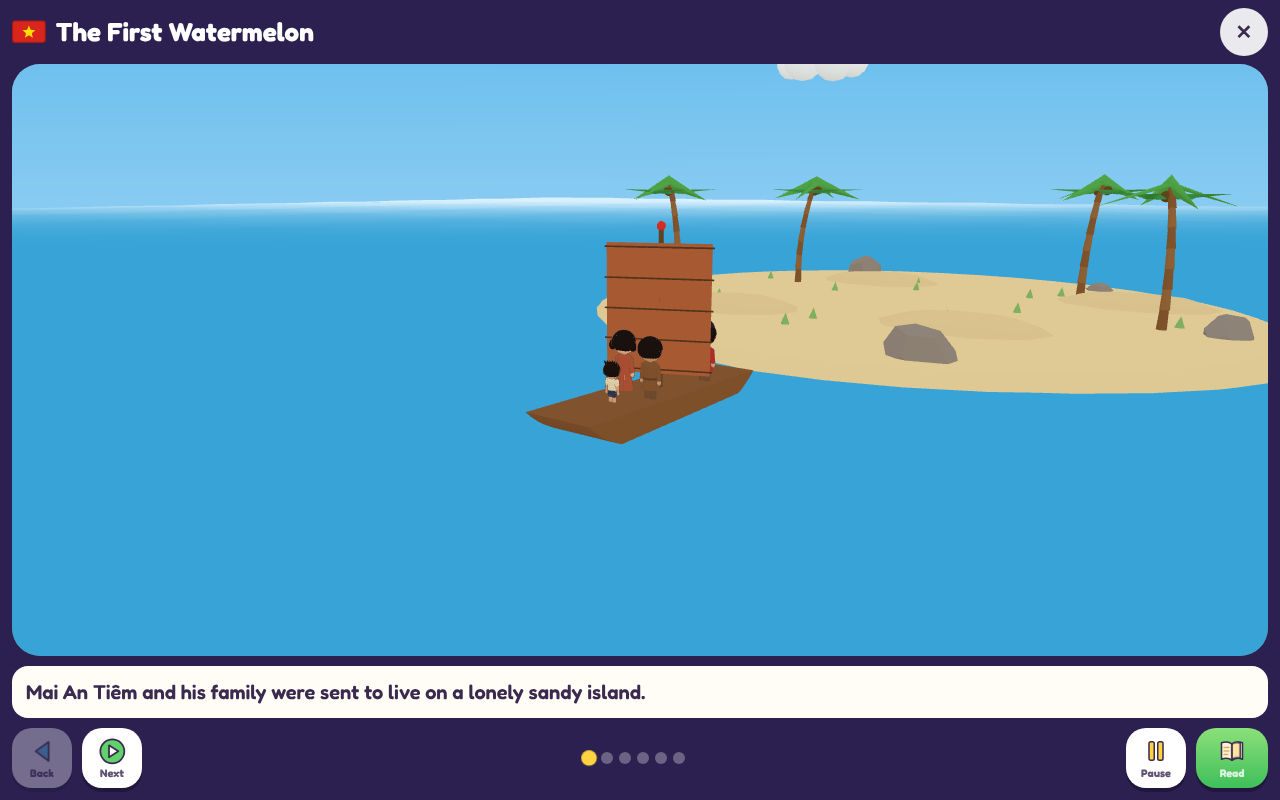
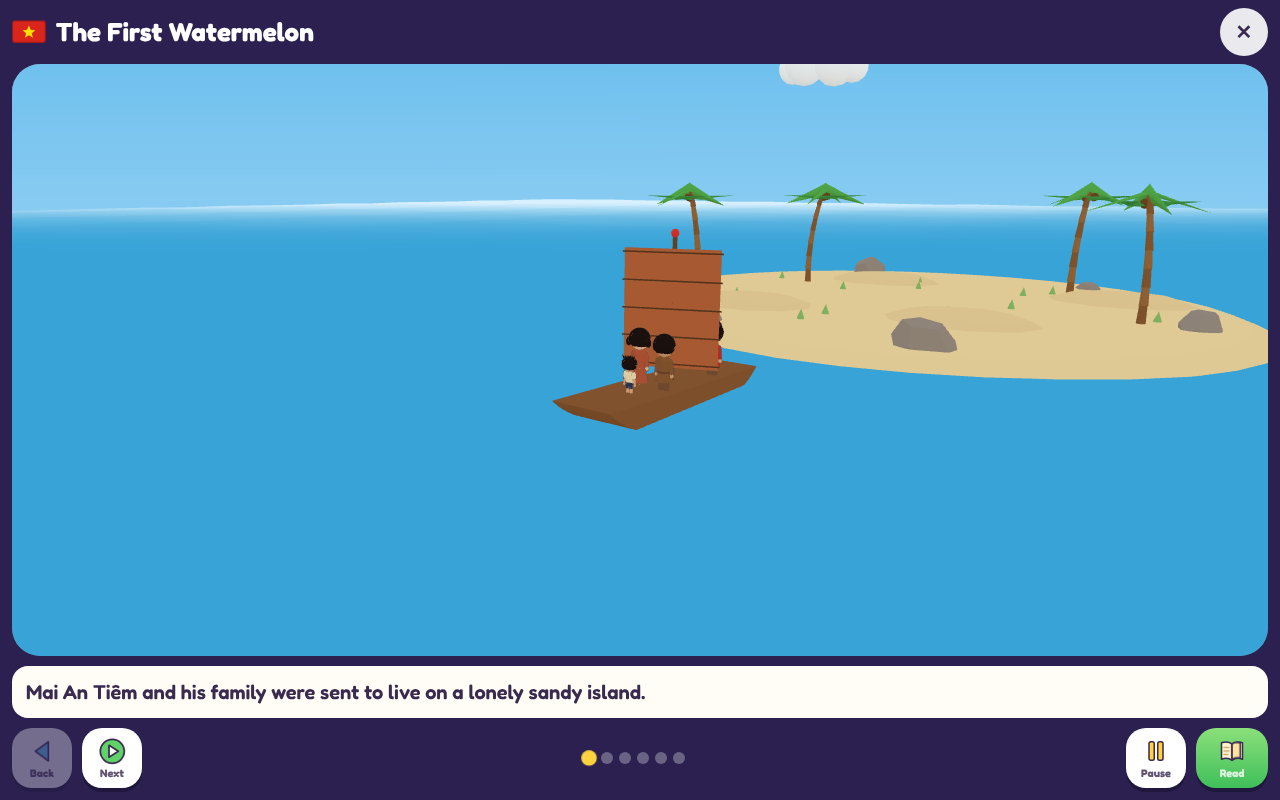
films: How to play has the story films' layout, title in a bar above the picture and words in the same box under it (owner, 16 Oct); pictures
Claude-Session: https://claude.ai/code/session_01C97UPDHkCN1oE7gf2sfXTn

diff --git a/js/howto.js b/js/howto.js
@@ -319,7 +319,9 @@ export function openHowTo(id, { onPlay, onClose } = {}) {
   if (h.real) cards.push(h.real);
   cards.push(Object.assign(S('⭐ 🎉', 'Now it is your turn. Have fun!', 'Giờ đến lượt con. Chơi vui nhé!'), { end: true }));
   const prevMusic = Music.key; Music.play('none');
-  const m = el('div', 'howto', `<div class="ht-film"><div class="ht-screen"></div><div class="ht-cap"></div><div class="ht-bar"><i></i></div></div>
+  // (owner, 16 Oct AEDT: "the text in How to play should be the same position as the film") like a story film: the title
+  // in a bar above the picture, the words in a box under it, nothing written over the picture
+  const m = el('div', 'howto', `<div class="ht-film"><div class="ht-top"><b class="ht-title">${esc(T('How to play', 'Cách chơi'))}${g ? ': ' + esc(g.name()) : ''}</b></div><div class="ht-screen"></div><div class="ht-cap"></div><div class="ht-bar"><i></i></div></div>
     <div class="ht-ctl"><button class="ht-b ht-prev" aria-label="${T('Back', 'Lùi')}">⏮</button><button class="ht-b ht-pp" aria-label="${T('Pause', 'Tạm dừng')}">⏸</button><button class="ht-b ht-next" aria-label="${T('Next', 'Tiếp')}">⏭</button>
     ${onPlay ? `<button class="ht-play">▶ ${T('Play now', 'Chơi ngay')}</button>` : ''}</div><button class="ht-x" aria-label="${T('Close', 'Đóng')}">✕</button>`);
   document.body.appendChild(m);
@@ -349,7 +351,7 @@ export function openHowTo(id, { onPlay, onClose } = {}) {
     screen.innerHTML = scene + (c.title ? `<div class="ht-titlecard"><span class="ht-big">${art(c.pic)}</span><b class="ht-name">${esc(T(c.en, c.vi))}</b>${originLabel(id) ? `<small>${esc(originLabel(id))}</small>` : ''}</div>`
       : `<span class="ht-host th-c in-l${k > 1 ? ' still' : ''}" style="--d:0s">${CAST[host]()}</span><div class="ht-props">${pics.map((p, i) => `<span class="ht-pic${p === '👆' || p === '👇' ? ' finger' : ''}" style="--d:${.3 + i * .35}s">${art(p)}</span>`).join('')}</div>`);
     setTimeout(() => { const hs = screen.querySelector('.ht-host'); if (hs) hs.classList.remove('walking'); }, 1500);
-    cap.textContent = c.title ? '' : T(c.en, c.vi);
+    cap.textContent = c.title ? T('How to play ', 'Cách chơi ') + T(c.en, c.vi) : T(c.en, c.vi);
     SFX.pop && SFX.pop(k);
     const t0 = performance.now();
     screen.classList.add('speaking');
@@ -363,8 +365,7 @@ export function openHowTo(id, { onPlay, onClose } = {}) {
   };
   const showFilm = async (my, c) => {
     screen.querySelectorAll('.ht-titlecard').forEach(x => x.remove());
-    if (c.title) screen.appendChild(el('div', 'ht-titlecard', `<b class="ht-name">${esc(T(c.en, c.vi))}</b>${originLabel(id) ? `<small>${esc(originLabel(id))}</small>` : ''}`));
-    cap.textContent = c.title ? '' : T(c.en, c.vi);
+    cap.textContent = c.title ? T('How to play ', 'Cách chơi ') + T(c.en, c.vi) + (originLabel(id) ? ' · ' + originLabel(id) : '') : T(c.en, c.vi);
     SFX.pop && SFX.pop(k);
     const played = film.page(cards.slice(0, k).filter(x => !x.demo).length); // (the real game's turn has no film page)
     await sayAsync(c.title ? T('How to play ', 'Cách chơi ') + T(c.en, c.vi) : c.en, c.title ? T('How to play ', 'Cách chơi ') + c.vi : c.vi);

diff --git a/css/style.css b/css/style.css
@@ -2676,12 +2676,14 @@ details.ocard.friends:not([open]) > summary::after { transform: rotate(-90deg); 
 body.touch .htoast.explain { bottom: calc(env(safe-area-inset-bottom) + 184px); max-width: min(320px, calc(100% - 48px)); white-space: normal; overflow: hidden; }
 /* (owner, 16 Oct) Studio "A game's question line on screen" off: the line's space stays so nothing moves */
 .gl.no-help .gl-help { visibility: hidden; }
-/* (owner, 16 Oct AEDT: "captions in films are too big, they cover almost everything") the words in films are small and
-   keep to the edges of the picture, never over the middle of it; "big text" (body.bigtext) still makes them bigger */
-.howto.film .ht-titlecard { top: 8px; left: 8px; transform: none; flex-direction: row; gap: 6px; max-width: min(62%, 300px); padding: 4px 12px; border-radius: 999px; background: rgba(255, 255, 255, .86); box-shadow: none; }
-.howto.film .ht-titlecard .ht-name { font-family: inherit; font-size: clamp(15px, 2vw, 18px); padding: 0; white-space: nowrap; overflow: hidden; text-overflow: ellipsis; }
-.howto.film .ht-titlecard .ht-big { font-size: 20px; animation: none; }
-.ht-cap { font-size: clamp(16px, 2.2vw, 19px); line-height: 1.3; min-height: 2.6em; padding: 8px 8px 2px; }
+/* (owner, 16 Oct AEDT: "captions in films are too big, they cover almost everything"; "the text in How to play should be
+   the same position as the film") the words in films are small and never over the picture: How to play has the story
+   films' layout, its title in a bar above the picture and its words in the same box under it; "big text"
+   (body.bigtext) still makes them bigger */
+.ht-top { display: flex; align-items: center; gap: 10px; padding: 0 4px 10px; color: #fff; }
+.ht-top .ht-title { flex: 1; font-size: clamp(17px, 3.4vw, 26px); line-height: 1.15; }
+.ht-cap { margin: 10px 0 0; background: #fffdf6; color: #3b2a4f; border-radius: 16px; padding: 8px 14px; min-height: 52px; display: flex; align-items: center; justify-content: flex-start; text-align: left; font-size: clamp(16px, 2.2vw, 20px); line-height: 1.35; }
+body.bigtext .ht-cap { font-size: clamp(20px, 3.2vw, 28px); }
 .film-help { bottom: 8px; gap: 6px; max-width: min(80%, 420px); padding: 5px 12px; font-size: clamp(15px, 2vw, 17px); }
 .film-help .fh-hand { width: 24px; height: 24px; }
 .th-text { min-height: 52px; padding: 8px 14px; border-radius: 16px; }
